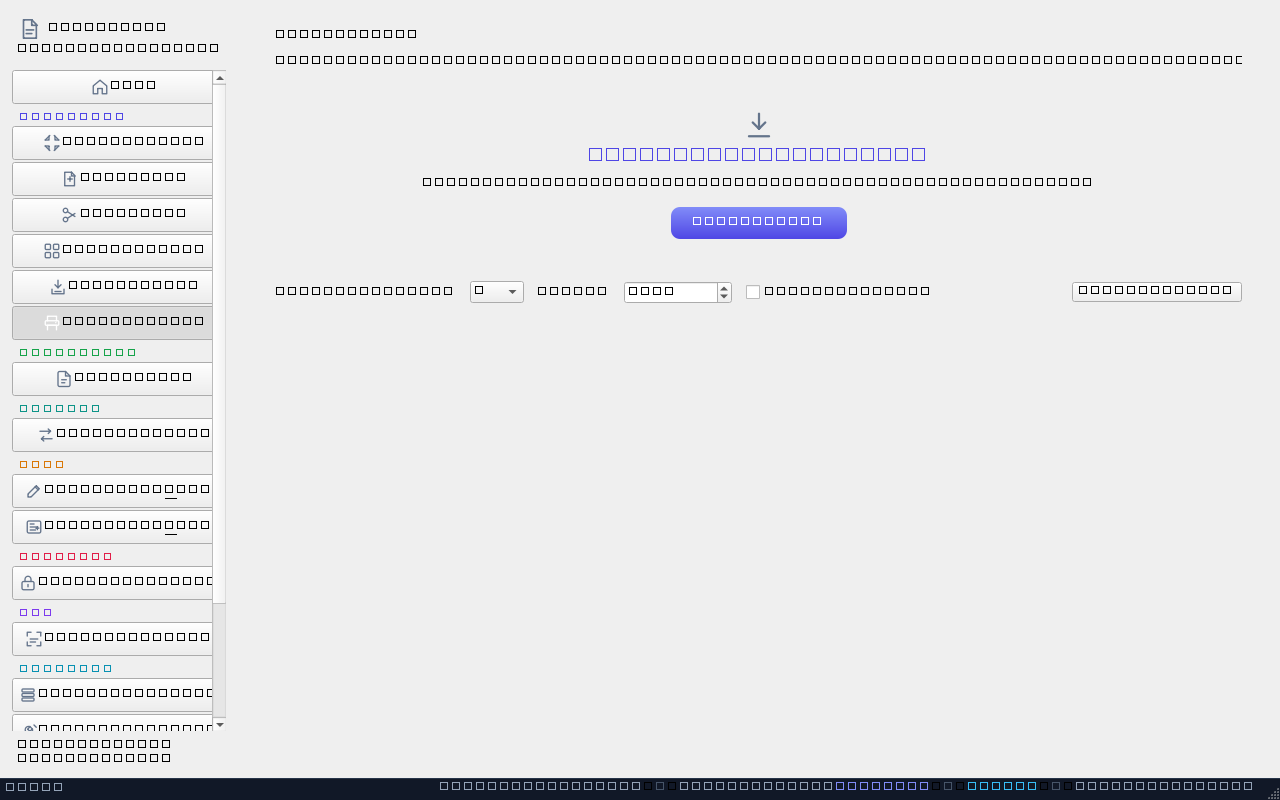
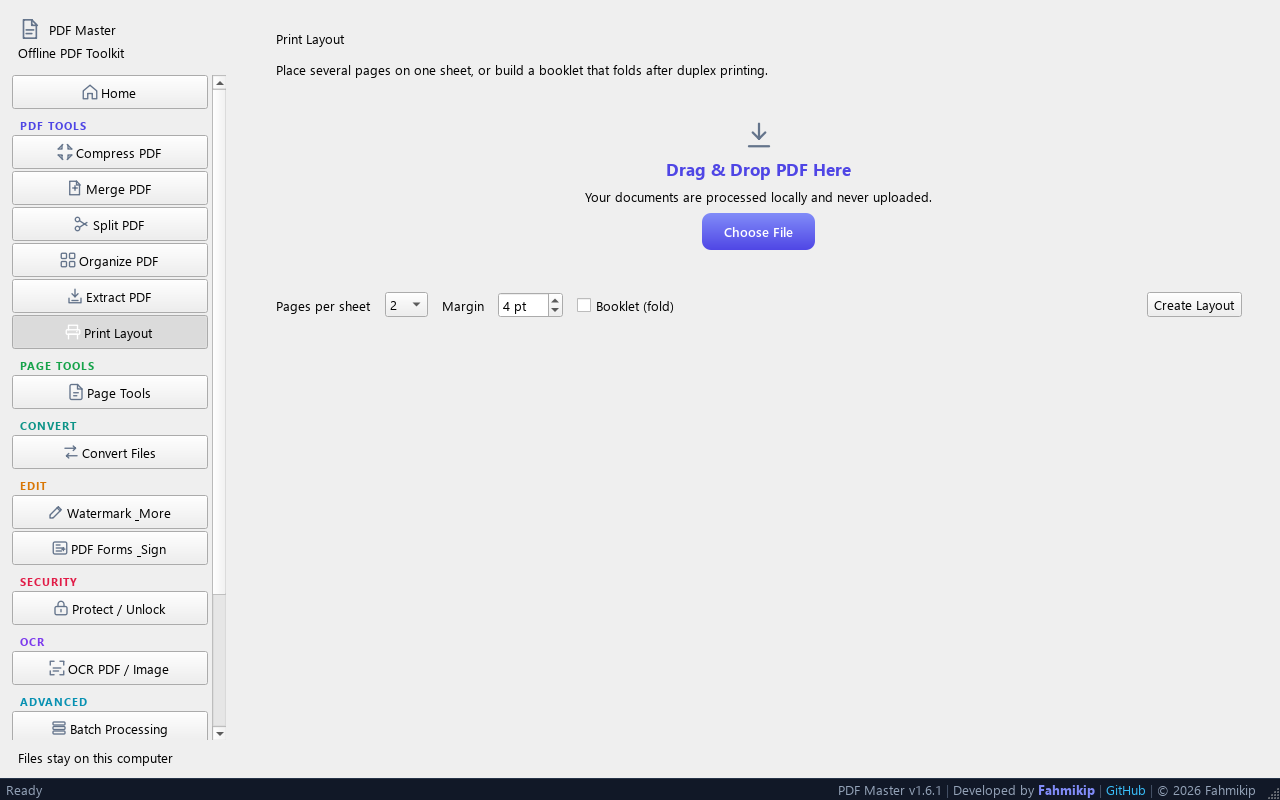
Fix screenshot rendering: register system fonts for offscreen capture
The offscreen platform starts with an empty font database, so UI glyphs
(arrows, rotate symbols, em-dash) rendered as tofu boxes. Register OS fonts
before capture and use Segoe UI as the app font in the screenshot script.

diff --git a/scripts/capture_screenshots.py b/scripts/capture_screenshots.py
@@ -6,6 +6,7 @@ regenerated on any machine or in CI without a display.
 
 from __future__ import annotations
 
+import os
 import sys
 from pathlib import Path
 
@@ -14,6 +15,7 @@ sys.path.insert(0, str(ROOT)) if str(ROOT) not in sys.path else None
 
 from app.config import ConfigStore, Settings  # noqa: E402
 from core.utils.logger import configure_logging  # noqa: E402
+from PySide6.QtGui import QFont, QFontDatabase, QFontMetrics  # noqa: E402
 from PySide6.QtWidgets import QApplication  # noqa: E402
 from ui.main_window import MainWindow  # noqa: E402
 
@@ -28,11 +30,51 @@ PAGES = {
     "settings": "Pengaturan",
 }
 
+# Characters the UI relies on that collapse to "tofu" boxes when the fallback
+# font that the offscreen platform ships with cannot render them.
+REQUIRED_CODEPOINTS = {0x2192, 0x21B6, 0x21B7, 0x2014, 0x2026}
+
+
+def _font_directories() -> list[Path]:
+    if sys.platform == "win32":
+        windows = Path(os.environ.get("WINDIR", r"C:\Windows"))
+        return [windows / "Fonts"]
+    if sys.platform == "darwin":
+        return [Path("/System/Library/Fonts"), Path("/Library/Fonts"), Path("~/Library/Fonts").expanduser()]
+    return [Path("/usr/share/fonts"), Path("~/.fonts").expanduser()]
+
+
+def _register_system_fonts() -> None:
+    """Make real system fonts visible to the offscreen renderer.
+
+    With QT_QPA_PLATFORM=offscreen the font database starts empty, so Qt falls
+    back to a built-in font that lacks most glyphs and text renders as boxes.
+    Registering the OS fonts fixes the rendering without needing a display.
+    """
+    registered = 0
+    for directory in _font_directories():
+        if not directory.is_dir():
+            continue
+        for pattern in ("*.ttf", "*.ttc", "*.otf"):
+            for font_path in directory.glob(pattern):
+                if QFontDatabase.addApplicationFont(str(font_path)) >= 0:
+                    registered += 1
+    family = "Segoe UI" if sys.platform == "win32" else QFont().family()
+    app = QApplication.instance()
+    if app is not None:
+        app.setFont(QFont(family, 10))
+    metrics = QFontMetrics(QFont(family, 10))
+    missing = sorted(f"U+{codepoint:04X}" for codepoint in REQUIRED_CODEPOINTS if not metrics.inFontUcs4(codepoint))
+    print(f"Registered {registered} system font file(s); app font: {family}")
+    if missing:
+        print(f"Warning: selected font lacks glyphs for {', '.join(missing)}")
+
 
 def main() -> None:
     configure_logging()
     app = QApplication.instance() or QApplication(sys.argv)
     app.setStyle("Fusion")
+    _register_system_fonts()
     settings = Settings(check_updates=False)
     window = MainWindow(settings, ConfigStore())
     window.resize(1280, 800)

diff --git a/CHANGELOG.md b/CHANGELOG.md
@@ -9,6 +9,9 @@ Format mengikuti [Keep a Changelog](https://keepachangelog.com/id/1.1.0/), dan v
 ### Ditambahkan
 - Screenshot README untuk halaman **Print Layout**, **Page Tools**, dan **Repair & Optimize** (digenerate headless).
 
+### Diperbaiki
+- Screenshot README kini merender font sistem dengan benar: platform offscreen sebelumnya punya basis data font kosong sehingga teks khusus (`→`, `↶`, `↷`, `—`, `…`) tampil sebagai kotak-kotak. Script screenshot kini mendaftarkan font sistem (338 berkas) dan memakai `Segoe UI`.
+
 ### Diubah
 - Kualitas kode: ambang **coverage dinaikkan ke 90%** (sebelumnya 85%) dan kini dijamin CI melalui `fail_under = 90`; ~40 baris baru diuji (validasi input, progress callback, jalur error).
 
